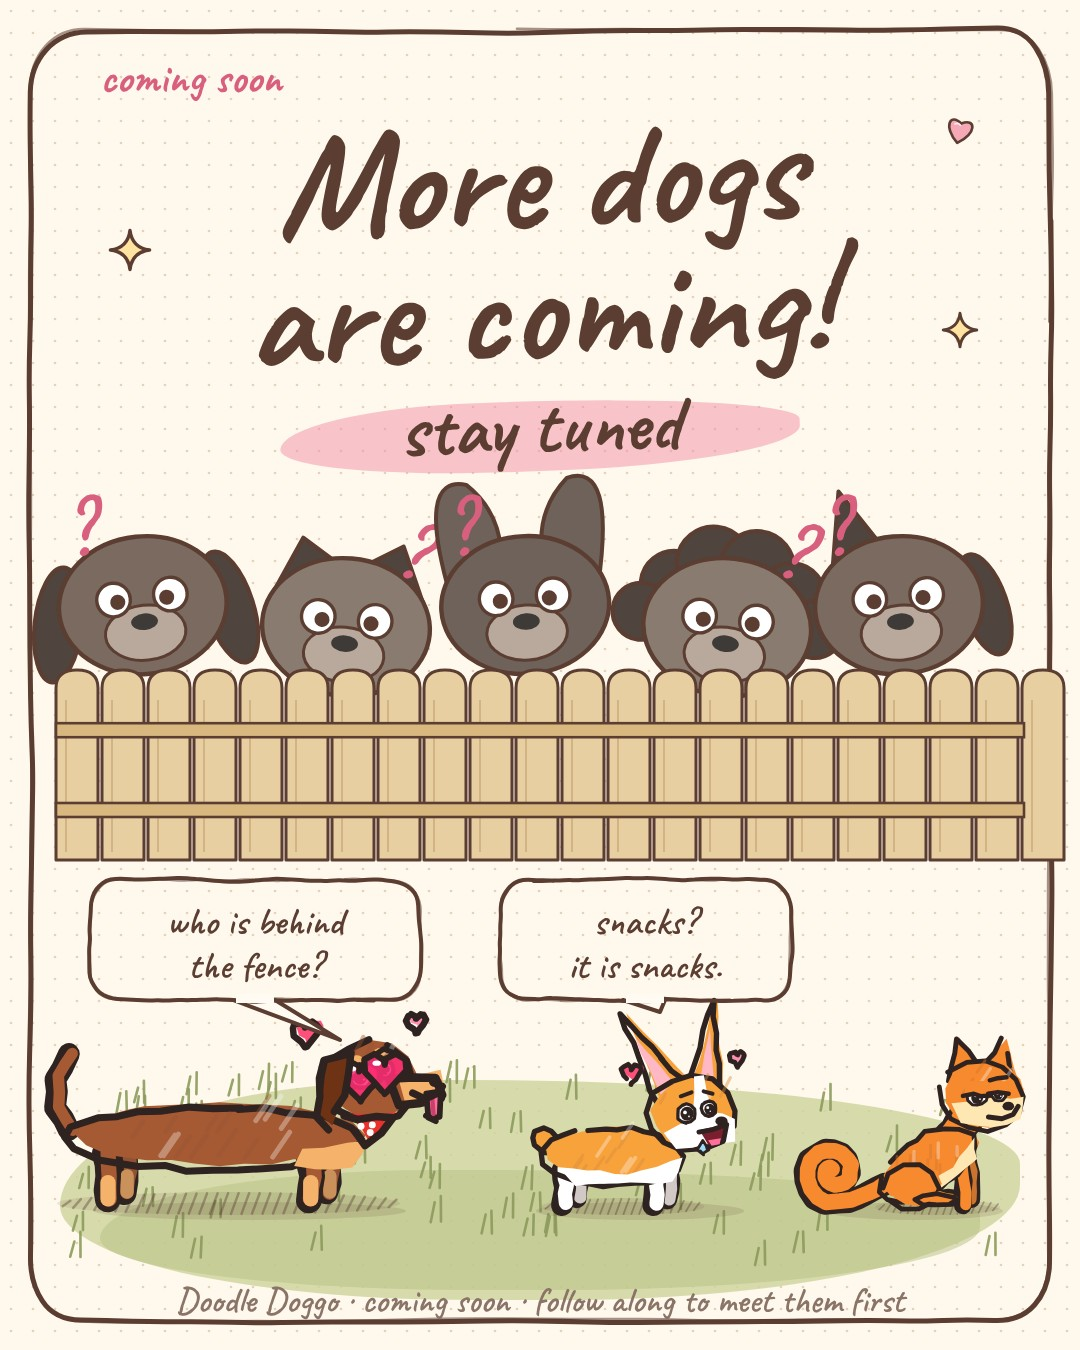
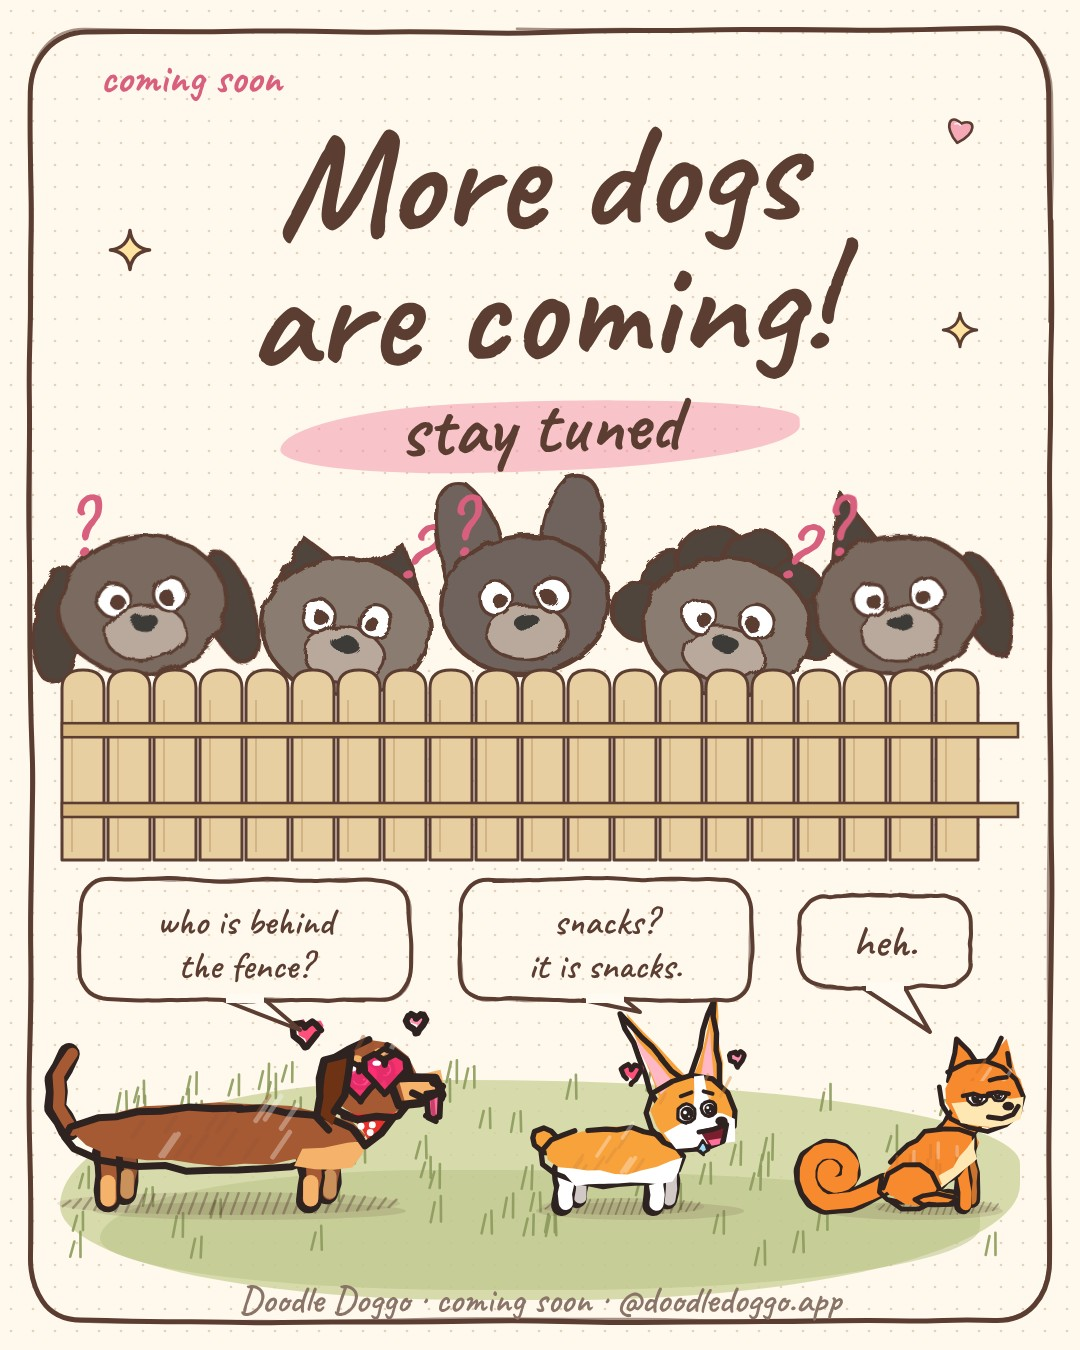
Marketing: retouch the 'more dogs are coming' post (crayon wobble, fence fit, Mochi's heh., handle)
Claude-Session: https://claude.ai/code/session_0173H2sTBWGuoegERTZ44QG1

diff --git a/brand/instagram/launch/make_soon.js b/brand/instagram/launch/make_soon.js
@@ -33,15 +33,17 @@ module.exports = async function ({ render, browser, helpers: h }) {
   for (let i = 0; i < 70; i++) { const x = 70 + rnd() * 940, y = 1080 + rnd() * 190; g += line([[x - 6, y], [x - 2, y - 14 - rnd() * 8]], 200 + i, 1, 2.6, '#8C9A5C', 0.9) + line([[x + 4, y], [x + 4, y - 18 - rnd() * 8]], 300 + i, 1, 2.6, '#8C9A5C', 0.9); }
   // the mystery heads behind the fence
   const heads = [[150, 'floppy', '#7A6A60', -6], [340, 'fold', '#8A7B70', 5], [530, 'bat', '#6F625B', -4], [720, 'curly', '#8A7B70', 6], [905, 'oneup', '#7A6A60', -5]];
-  heads.forEach(([x, kind, col, rot], i) => { g += mystery(x, 536 + (i % 2) * 22, 168, kind, col, rot); g += txt('?', x + (i % 2 ? 66 : -66), 556 + (i % 2) * 22, 80, { rot: i % 2 ? 12 : -12, fill: '#D8607E' }); });
+  // v2: drawn through a wobble filter so they match the crayon dogs
+  g += '<filter id="wob" x="-10%" y="-10%" width="120%" height="120%"><feTurbulence type="fractalNoise" baseFrequency="0.045" numOctaves="2" seed="5"/><feDisplacementMap in="SourceGraphic" scale="9"/></filter>';
+  heads.forEach(([x, kind, col, rot], i) => { g += `<g filter="url(#wob)">${mystery(x, 536 + (i % 2) * 22, 168, kind, col, rot)}</g>`; g += txt('?', x + (i % 2 ? 66 : -66), 556 + (i % 2) * 22, 80, { rot: i % 2 ? 12 : -12, fill: '#D8607E' }); });
   // the fence
-  const fence = (x0, x1, base, hh) => { let s2 = ''; for (let x = x0; x < x1; x += 46) s2 += `<path d="M${x} ${base}V${base - hh + 18}Q${x} ${base - hh} ${x + 21} ${base - hh}Q${x + 42} ${base - hh} ${x + 42} ${base - hh + 18}V${base}Z" fill="#E8CFA2" stroke="${INK}" stroke-width="3" stroke-linejoin="round"/><path d="M${x + 10} ${base - hh + 30}V${base - 8}" stroke="#C9A878" stroke-width="2" opacity=".7"/>`; return s2 + `<rect x="${x0}" y="${base - hh * 0.72}" width="${x1 - x0}" height="14" fill="#D9B880" stroke="${INK}" stroke-width="2.6"/><rect x="${x0}" y="${base - hh * 0.3}" width="${x1 - x0}" height="14" fill="#D9B880" stroke="${INK}" stroke-width="2.6"/>`; };
-  g += fence(56, 1024, 860, 190);
+  const fence = (x0, x1, base, hh) => { let s2 = ''; for (let x = x0; x + 42 <= x1; x += 46) s2 += `<path d="M${x} ${base}V${base - hh + 18}Q${x} ${base - hh} ${x + 21} ${base - hh}Q${x + 42} ${base - hh} ${x + 42} ${base - hh + 18}V${base}Z" fill="#E8CFA2" stroke="${INK}" stroke-width="3" stroke-linejoin="round"/><path d="M${x + 10} ${base - hh + 30}V${base - 8}" stroke="#C9A878" stroke-width="2" opacity=".7"/>`; return s2 + `<rect x="${x0}" y="${base - hh * 0.72}" width="${x1 - x0}" height="14" fill="#D9B880" stroke="${INK}" stroke-width="2.6"/><rect x="${x0}" y="${base - hh * 0.3}" width="${x1 - x0}" height="14" fill="#D9B880" stroke="${INK}" stroke-width="2.6"/>`; };
+  g += fence(62, 1018, 860, 190);
   // the dogs we know, in front of the fence
   const cast = [['dachs', 'happy', 250, 390, { eyes: 'Heart Sunglasses', neck: 'Red Bandana' }, 250], ['corgi', 'happy', 640, 260, null, 215], ['shiba', 'sit', 915, 220, null, 235]];
   for (const [k, pose, cx, mw, outfit, mh] of cast) { const d = await fit(k, { pose, outfit: outfit || undefined }, cx, 1215, mw, mh); g += `<ellipse cx="${f1(cx)}" cy="1211" rx="${f1(mw * 0.4)}" ry="9" fill="#5B3D32" opacity=".14"/>` + d.svg; }
-  g += bubble(90, 880, 330, 120, 340, 1040, ['who is behind', 'the fence?'], 6, 38) + bubble(500, 880, 290, 120, 660, 1012, ['snacks?', 'it is snacks.'], 7, 38);
-  g += txt('Doodle Doggo · coming soon · follow along to meet them first', 540, 1312, 36, { fill: MUTED, w: 600 });
+  g += bubble(80, 880, 330, 120, 300, 1030, ['who is behind', 'the fence?'], 6, 38) + bubble(460, 880, 290, 120, 640, 1012, ['snacks?', 'it is snacks.'], 7, 38) + bubble(800, 896, 170, 92, 930, 1032, ['heh.'], 8, 44);
+  g += txt('Doodle Doggo · coming soon · @doodledoggo.app', 540, 1312, 38, { fill: MUTED, w: 600 });
   await render(svgPage(W, H, g), W, H, 'soon-more-dogs-coming.jpg');
   await mp.close();
 };
